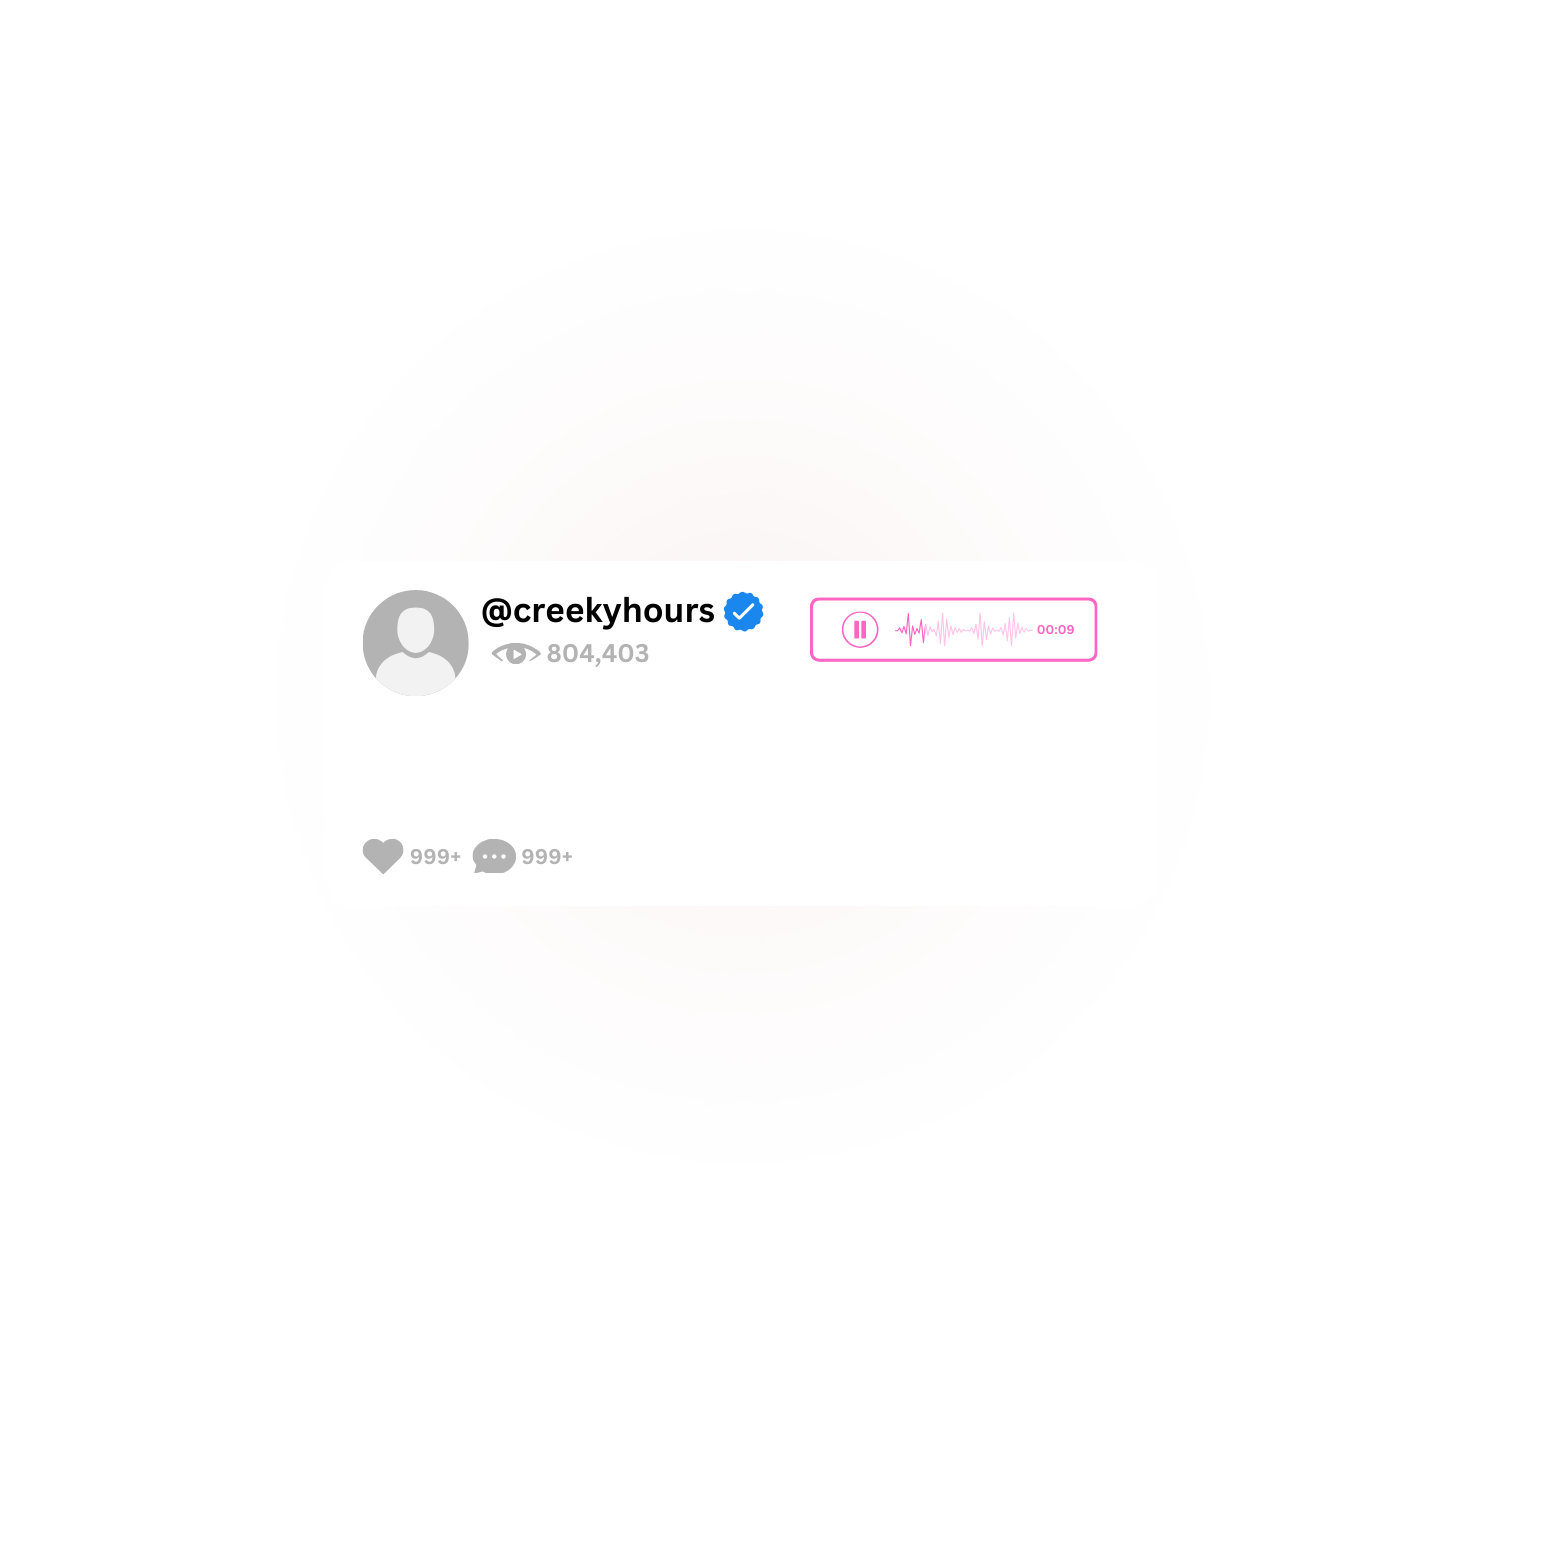
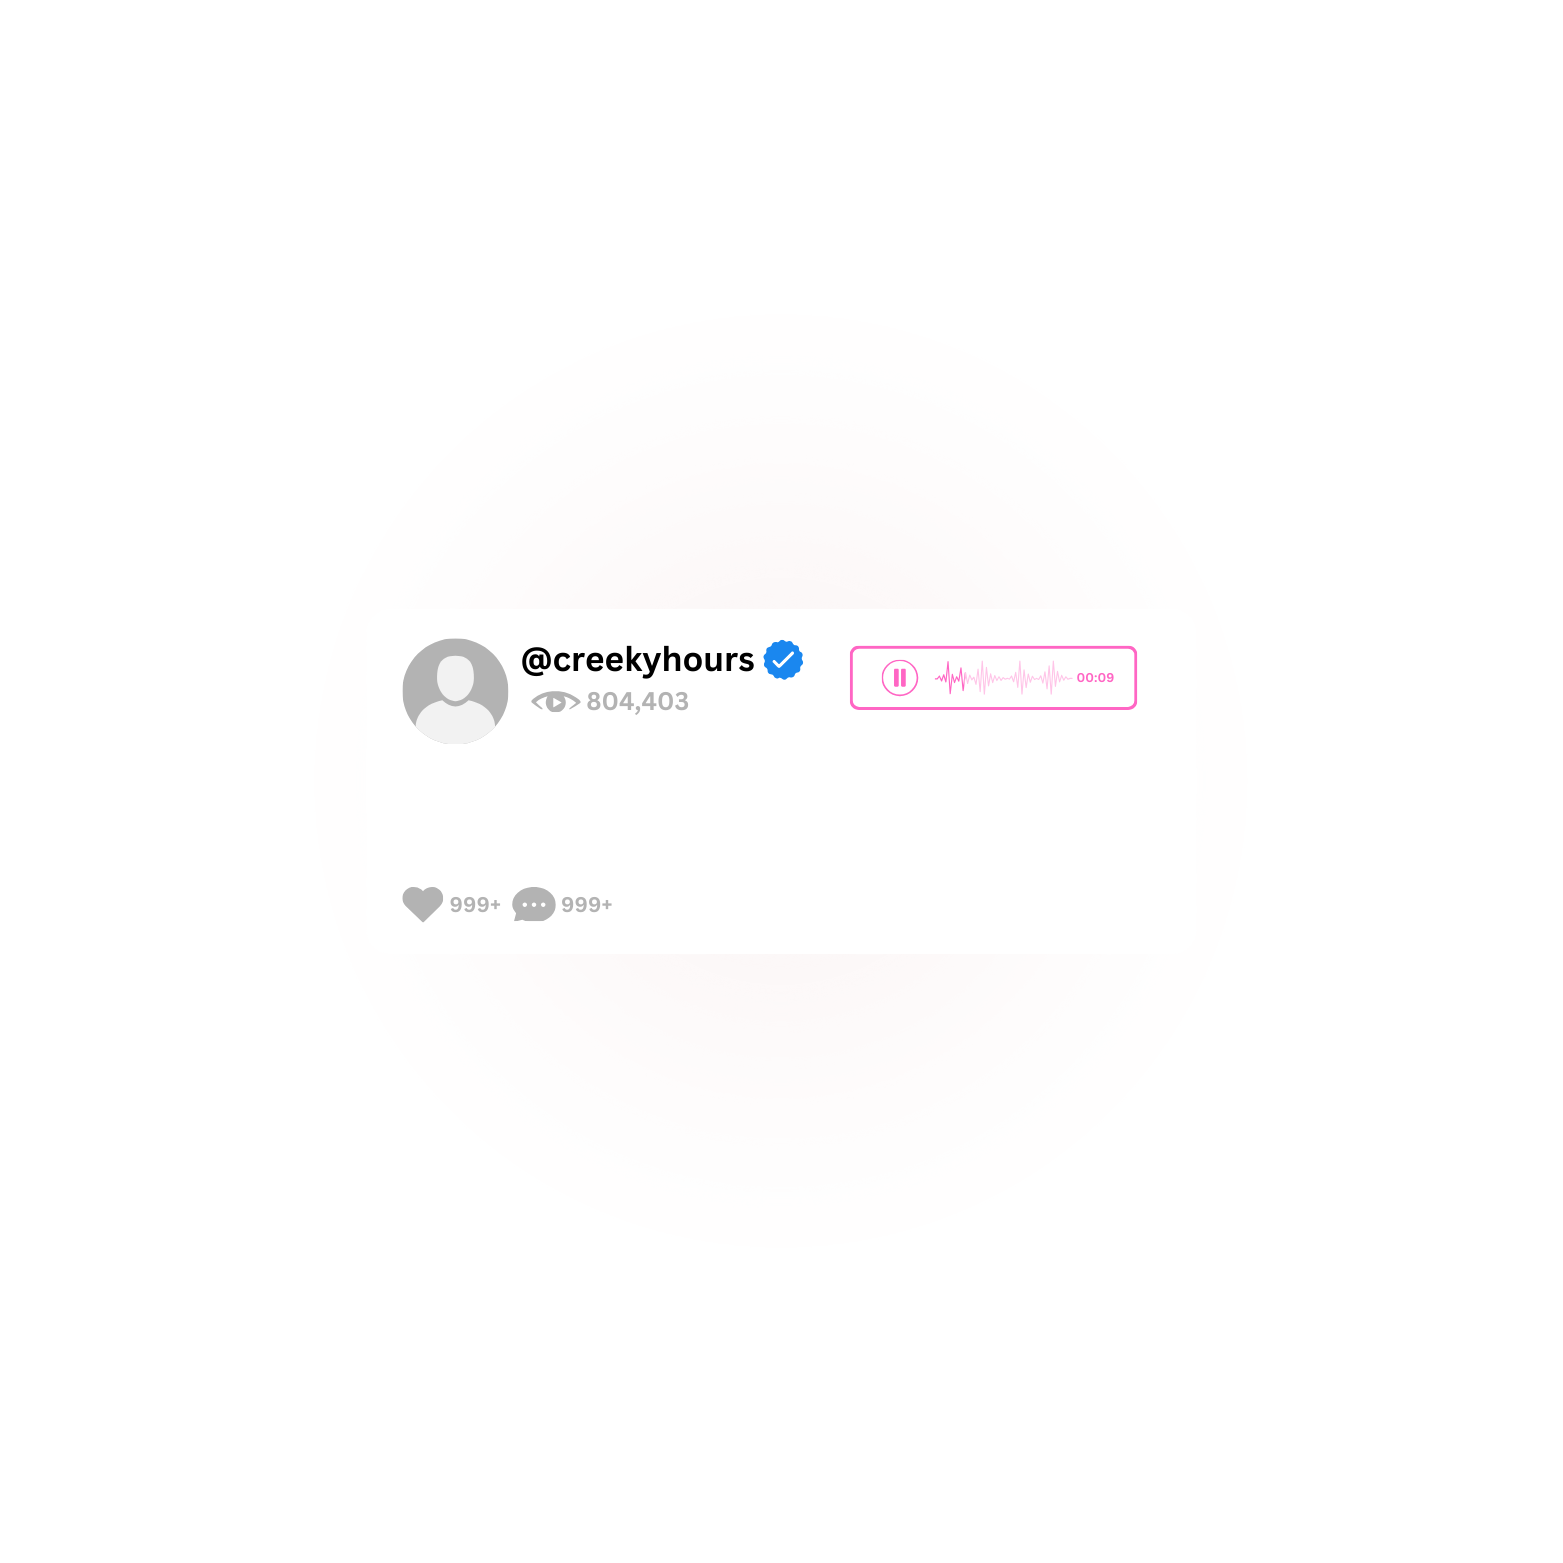
feat: Integrating image generation service with video generation

Changed region(s): [[0.215, 0.3685, 0.737, 0.4607], [0.215, 0.5221, 0.3992, 0.5835]]

diff --git a/src/main/java/com/jwtly10/aicontentgenerator/service/Reddit/RedditVideoGenerator.java b/src/main/java/com/jwtly10/aicontentgenerator/service/Reddit/RedditVideoGenerator.java
@@ -27,12 +27,15 @@ public class RedditVideoGenerator {
 
     private final OpenAPIService openAPIService;
 
-    private FFmpegUtil ffmpegUtil;
+    private final RedditTitleImageGenerator redditTitleImageGenerator;
 
-    public RedditVideoGenerator(VoiceGenerator<ElevenLabsVoice> voiceGenerator, GentleAlignerUtil gentleAlignerUtil, OpenAPIService openAPIService, FFmpegUtil ffmpegUtil) {
+    private final FFmpegUtil ffmpegUtil;
+
+    public RedditVideoGenerator(VoiceGenerator<ElevenLabsVoice> voiceGenerator, GentleAlignerUtil gentleAlignerUtil, OpenAPIService openAPIService, RedditTitleImageGenerator redditTitleImageGenerator, FFmpegUtil ffmpegUtil) {
         this.voiceGenerator = voiceGenerator;
         this.gentleAlignerUtil = gentleAlignerUtil;
         this.openAPIService = openAPIService;
+        this.redditTitleImageGenerator = redditTitleImageGenerator;
         this.ffmpegUtil = ffmpegUtil;
     }
 
@@ -121,9 +124,12 @@ public class RedditVideoGenerator {
             videoPath = loopedVideo.get();
         }
 
-        // TODO: Generate overlay img
-        String overlayImg = "/home/personal/Projects/ai-content-generator/src/test/resources/test_files/example_title.png";
-        Optional<String> videoWithOverlay = ffmpegUtil.overlayImage(overlayImg, videoPath, titleLength.get(), processUUID);
+        Optional<String> overlayImg = redditTitleImageGenerator.generateImage(title, processUUID);
+        if (overlayImg.isEmpty()) {
+            log.error("Failed to generate image");
+            return Optional.empty();
+        }
+        Optional<String> videoWithOverlay = ffmpegUtil.overlayImage(overlayImg.get(), videoPath, titleLength.get(), processUUID);
         if (videoWithOverlay.isEmpty()) {
             log.error("Failed to overlay image");
             return Optional.empty();

diff --git a/src/test/java/com/jwtly10/aicontentgenerator/unitTests/service/Reddit/RedditTitleImageGeneratorTest.java b/src/test/java/com/jwtly10/aicontentgenerator/unitTests/service/Reddit/RedditTitleImageGeneratorTest.java
@@ -26,6 +26,8 @@ class RedditTitleImageGeneratorTest extends BaseFileTest {
         title.setTitle("This is a short title which should fit on the image.");
         redditTitleImageGenerator.generateImage(title, fileId);
         assertFileExists(ffmpegTmpPath + fileId + ".png");
+
+        cleanUp(fileId);
     }
 
     @Test
@@ -35,6 +37,8 @@ class RedditTitleImageGeneratorTest extends BaseFileTest {
         title.setTitle("AITA if my title is too long and I don't care? I don't think I am but I want to know what you think?");
         redditTitleImageGenerator.generateImage(title, fileId);
         assertFileExists(ffmpegTmpPath + fileId + ".png");
+
+        cleanUp(fileId);
     }
 
     @Test

diff --git a/src/main/java/com/jwtly10/aicontentgenerator/service/Reddit/RedditTitleImageGenerator.java b/src/main/java/com/jwtly10/aicontentgenerator/service/Reddit/RedditTitleImageGenerator.java
@@ -79,8 +79,8 @@ public class RedditTitleImageGenerator {
 
             int maxWidth = 760;
 
-            int x = 360;
-            int y = 735;
+            int x = 400;
+            int y = 820;
 
             Font font = baseFont.deriveFont((float) 34);
 
